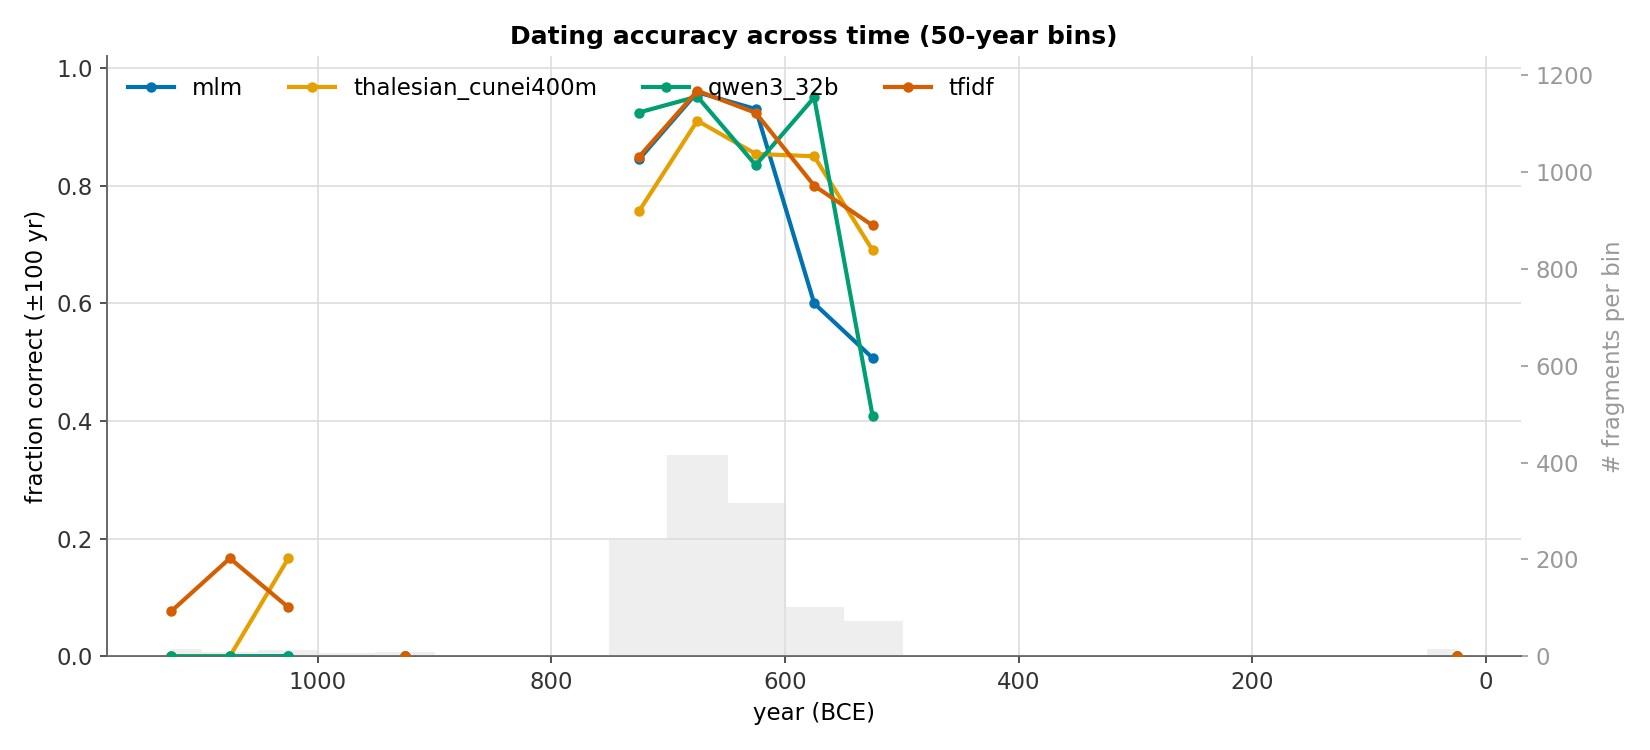
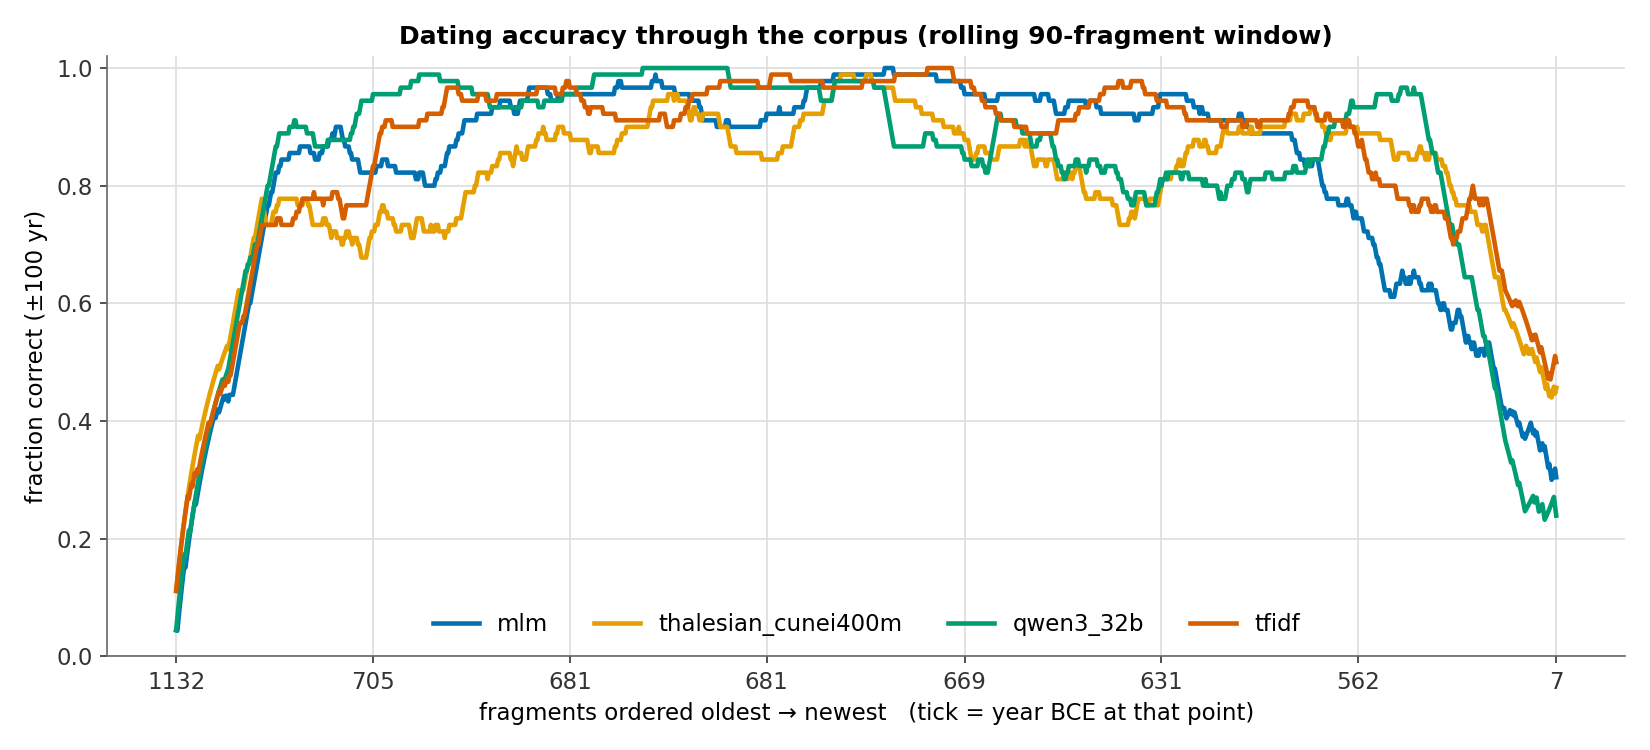
Fix year view + add overlaid error-density (gaussian) comparison
- error_densities.png: overlaid KDE of signed + absolute error per model — the
  'are the distributions different like two gaussians' picture behind JS/Wass.
  They nearly coincide -> shared signal.
- year_accuracy_line.png: replaced misleading year-binned line (fake flat
  bridges across empty year-stretches) with an honest fragment-rank rolling
  curve, year labels at ticks. Curves track together; accuracy collapses at both
  temporal extremes for all models.

diff --git a/v_1/src/geodesic/fig1_followups/error_overlap/analyze_per_model.py b/v_1/src/geodesic/fig1_followups/error_overlap/analyze_per_model.py
@@ -158,39 +158,82 @@ def grouped_bars(rows, models, labels, out, tol, plt, min_n=10, top_k=14):
              f"Dating error by {nice}", f"bars_mae_{label}.png")
 
 
-def year_line(rows, models, out, tol, plt, bin_yr=50):
-    """Fine-grained dating accuracy vs year: one smooth line per model over
-    `bin_yr`-year bins (far finer + cleaner than the chunky century bars)."""
+def year_line(rows, models, out, tol, plt, window=90):
+    """Dating accuracy through time, honestly: x = fragments ordered oldest->
+    newest (rank), so every x is a real fragment and there are no fake flat
+    bridges across the corpus's big empty year-stretches. Year labels mark a few
+    rank positions; clustered labels reveal where the corpus actually sits."""
     import numpy as np
     _setup(plt)
     cm = _cmap(models)
-    yrs = np.array([float(r["year_true"]) for r in rows])
-    lo, hi = (np.floor(yrs.min() / bin_yr) * bin_yr, np.ceil(yrs.max() / bin_yr) * bin_yr)
-    edges = np.arange(lo, hi + bin_yr, bin_yr)
-    centers = (edges[:-1] + edges[1:]) / 2
-    idx = np.digitize(yrs, edges) - 1
+    order = np.argsort([-float(r["year_true"]) for r in rows])   # oldest first
+    yrs = np.array([float(rows[i]["year_true"]) for i in order])
+    half = window // 2
+    x = np.arange(len(order))
 
     fig, ax = plt.subplots(figsize=(11, 5))
-    counts = np.array([(idx == b).sum() for b in range(len(centers))])
-    # shade bin counts as a light context band
-    ax2 = ax.twinx()
-    ax2.fill_between(centers, counts, color="#eeeeee", step="mid", zorder=0)
-    ax2.set_ylabel("# fragments per bin", color="#999999")
-    ax2.set_ylim(0, counts.max() * 3); ax2.tick_params(colors="#999999")
-    ax2.grid(False); ax2.spines["top"].set_visible(False)
-
     for m in models:
-        ok = np.array([r[f"_ok_{m}"] for r in rows], dtype=float)
-        frac = np.array([ok[idx == b].mean() if (idx == b).sum() >= 5 else np.nan
-                         for b in range(len(centers))])
-        ax.plot(centers, frac, "-o", ms=4, lw=2, color=cm[m], label=m, zorder=3)
-    ax.set_xlabel("year (BCE)"); ax.set_ylabel(f"fraction correct (±{tol:.0f} yr)")
-    ax.set_ylim(0, 1.02); ax.invert_xaxis()   # older on the right -> time flows left
-    ax.set_title(f"Dating accuracy across time ({bin_yr}-year bins)")
-    ax.set_zorder(ax2.get_zorder() + 1); ax.patch.set_visible(False)
-    ax.legend(ncol=len(models), loc="upper left")
+        ok = np.array([rows[i][f"_ok_{m}"] for i in order], dtype=float)
+        roll = np.array([ok[max(0, p - half):p + half].mean() for p in range(len(ok))])
+        ax.plot(x, roll, lw=2.2, color=cm[m], label=m)
+    ticks = np.linspace(0, len(order) - 1, 8).astype(int)
+    ax.set_xticks(ticks)
+    ax.set_xticklabels([f"{int(yrs[t])}" for t in ticks])
+    ax.set_xlabel("fragments ordered oldest → newest   (tick = year BCE at that point)")
+    ax.set_ylabel(f"fraction correct (±{tol:.0f} yr)")
+    ax.set_ylim(0, 1.02)
+    ax.set_title(f"Dating accuracy through the corpus (rolling {window}-fragment window)")
+    ax.legend(ncol=len(models), loc="lower center")
     fig.tight_layout(); fig.savefig(out / "year_accuracy_line.png"); plt.close(fig)
     print("[ok] year_accuracy_line.png")
+
+
+def error_densities(rows, models, out, tol, plt):
+    """Overlaid smooth densities (KDE) of each model's error — the 'are the
+    distributions different like two gaussians' view, which the JS/Wasserstein
+    numbers quantify. Left: signed error (bias); right: absolute error."""
+    import numpy as np
+    from scipy.stats import gaussian_kde
+    _setup(plt)
+    cm = _cmap(models)
+
+    serr = {m: np.array([r[f"_serr_{m}"] for r in rows if not np.isnan(r[f"_serr_{m}"])])
+            for m in models}
+    aerr = {m: np.array([r[f"_err_{m}"] for r in rows if not np.isnan(r[f"_err_{m}"])])
+            for m in models}
+    # readable window (trim long tails): symmetric for signed, [0,hi] for abs
+    shi = np.percentile(np.concatenate(list(serr.values())), 96)
+    slo = np.percentile(np.concatenate(list(serr.values())), 4)
+    s_lim = max(abs(slo), abs(shi))
+    a_hi = np.percentile(np.concatenate(list(aerr.values())), 97)
+
+    fig, axes = plt.subplots(1, 2, figsize=(13, 5))
+    xs = np.linspace(-s_lim, s_lim, 500)
+    for m in models:
+        d = gaussian_kde(serr[m])(xs)
+        axes[0].plot(xs, d, color=cm[m], lw=2.2, label=m)
+        axes[0].fill_between(xs, d, color=cm[m], alpha=0.10)
+    axes[0].axvline(0, color="#888888", ls="--", lw=1)
+    axes[0].set_xlabel("signed error: predicted − true (years)")
+    axes[0].set_ylabel("density")
+    axes[0].set_title("Bias — under- vs over-dating")
+    axes[0].legend()
+
+    xa = np.linspace(0, a_hi, 500)
+    for m in models:
+        d = gaussian_kde(aerr[m])(xa)
+        axes[1].plot(xa, d, color=cm[m], lw=2.2, label=m)
+        axes[1].fill_between(xa, d, color=cm[m], alpha=0.10)
+    axes[1].axvline(tol, color="#888888", ls=":", lw=1.2)
+    axes[1].text(tol, axes[1].get_ylim()[1] * 0.92, f" ±{tol:.0f}yr", fontsize=8, color="#666")
+    axes[1].set_xlabel("absolute error (years)")
+    axes[1].set_title("Error magnitude")
+    axes[1].legend()
+    fig.suptitle("Per-model error distributions (overlaid) — the picture behind "
+                 "the JS / Wasserstein distances", y=1.02, fontsize=12)
+    fig.tight_layout(); fig.savefig(out / "error_densities.png", bbox_inches="tight")
+    plt.close(fig)
+    print("[ok] error_densities.png")
 
 
 def distance_and_map(rows, models, out, tol, plt):
@@ -310,7 +353,9 @@ def main() -> None:
         yt = float(r["year_true"])
         for m in models:
             v = r[f"pred_{m}"]
-            e = abs(float(v) - yt) if v not in ("", "nan") else np.nan
+            se = (float(v) - yt) if v not in ("", "nan") else np.nan   # signed
+            e = abs(se)
+            r[f"_serr_{m}"] = se
             r[f"_err_{m}"] = e
             r[f"_ok_{m}"] = (not np.isnan(e)) and e <= args.tol
         r["_nc"] = sum(r[f"_ok_{m}"] for m in models)
@@ -412,8 +457,9 @@ def main() -> None:
     grouped_bars(rows, models, meta_cols, out, args.tol, plt,
                  min_n=args.min_n, top_k=args.top_k)
 
-    print("\n--- fine-grained accuracy-vs-year line ---")
-    year_line(rows, models, out, args.tol, plt, bin_yr=args.year_bin)
+    print("\n--- accuracy-vs-year (rolling) + error-distribution densities ---")
+    year_line(rows, models, out, args.tol, plt)
+    error_densities(rows, models, out, args.tol, plt)
 
     print("\n--- model error-distribution distances + MDS map ---")
     distance_and_map(rows, models, out, args.tol, plt)
